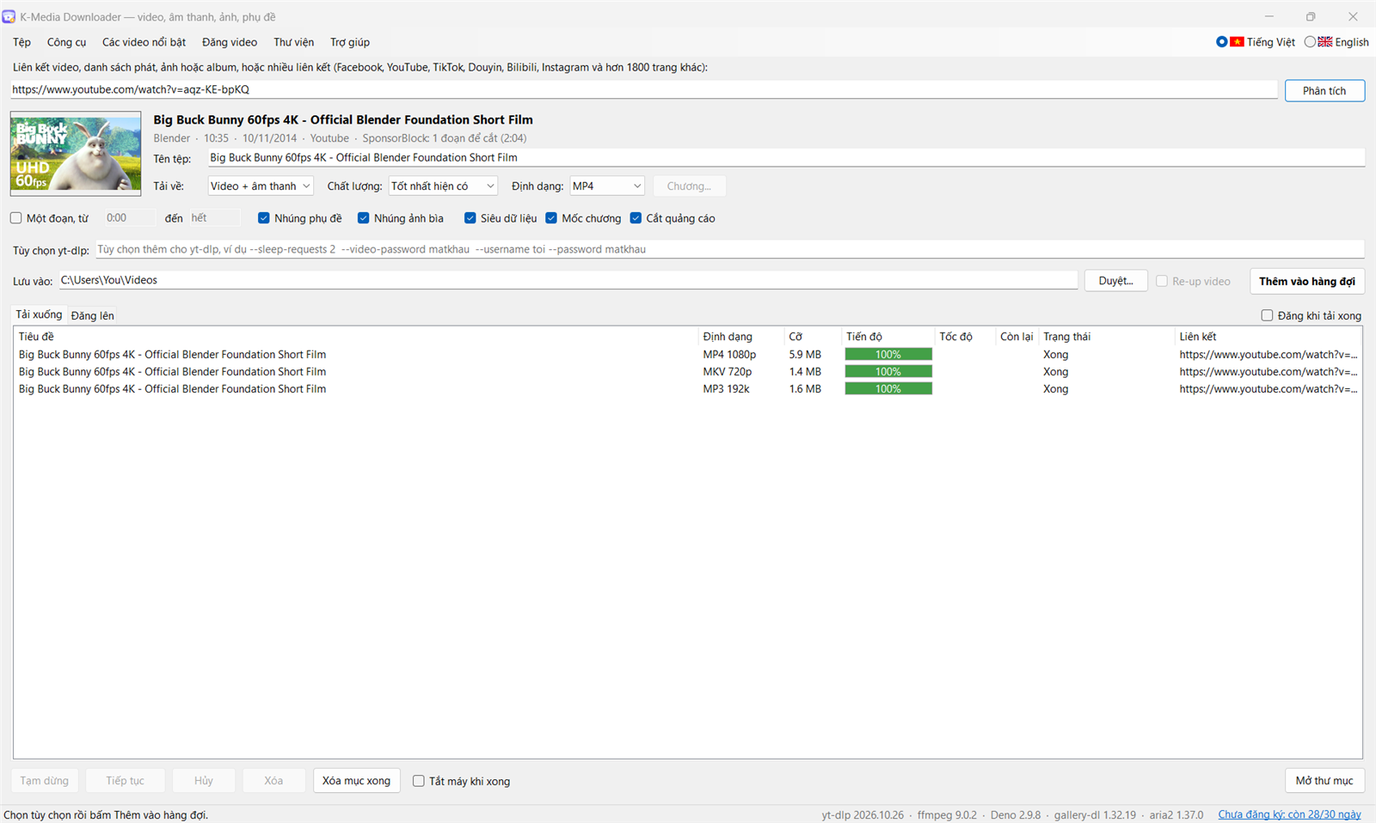
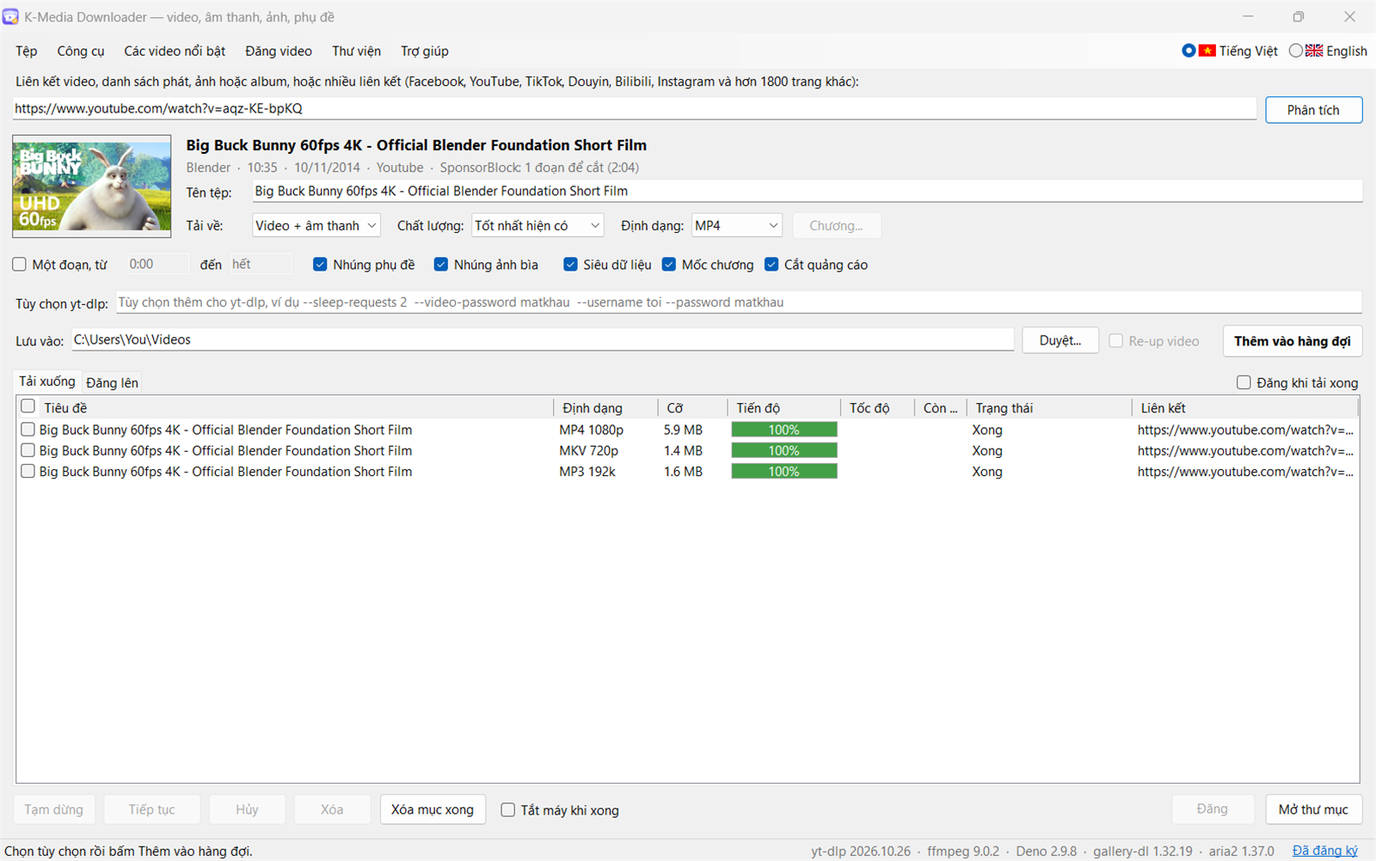
K-Media Downloader 1.7.2

diff --git a/README.vi.md b/README.vi.md
@@ -34,6 +34,7 @@ Dán liên kết, bấm **Phân tích** để xem trang đó có gì (một vide
 | **Tải nhanh hơn** | Mỗi tệp được tải qua nhiều kết nối cùng lúc bằng **aria2**, ứng dụng tự thêm công cụ này: nhanh hơn nhiều ở những trang làm chậm từng kết nối (Facebook, Bilibili và các trang khác). Nếu trang từ chối, lượt tải đó được thử lại mà không có aria2. Tắt trong Cài đặt > Mạng. |
 | **Cài đặt mạng** | Proxy, giới hạn tốc độ cho mỗi lượt tải, số phần của một video phát trực tuyến được tải cùng lúc, và trình duyệt để giả dạng (Chrome, Edge, Firefox, Safari) cho những trang từ chối công cụ tải: Cài đặt > Mạng. |
 | **Nhiều lượt tải cùng lúc** | Chọn số lượt chạy cùng một lúc, các lượt còn lại chờ trong hàng đợi. Đóng ứng dụng lúc nào cũng được: lần sau hàng đợi quay lại, và các lượt tải dở dang tiếp tục từ chỗ đã dừng. |
+| **Danh sách hàng đợi và Đăng lên** | Tick các hàng (ô ở bên trái mỗi hàng, ô ở tiêu đề danh sách để tick tất cả, hoặc Ctrl+A) thì các nút bên dưới danh sách tác động lên các hàng đã tick trước; khi chưa tick hàng nào, chúng tác động lên các hàng đang chọn, còn menu chuột phải tác động lên hàng bạn bấm. **Hủy** hỏi trước khi dừng một lượt tải đã bắt đầu (các tệp đã tải dở bị xóa) hoặc một video đang được đăng, **Xóa** luôn hỏi, và **Xóa mục xong** chỉ lấy khỏi danh sách những mục đã xong, lỗi hoặc đã hủy. Bấm đúp một hàng để mở tệp hoặc bài đăng của nó. Cửa sổ mở lại ở thẻ bạn đã để. Danh sách **Đăng lên** cũng được giữ khi bạn đóng ứng dụng: những video đang chờ đăng sẽ tiếp tục ở lần mở sau, còn video đang được đăng được đánh dấu **Kiểm tra bài đã đăng chưa**, vì có thể nó đã lên trang: bạn được hỏi lại trước khi thử đăng lần nữa. |
 | **Phát trực tiếp** | Ghi một buổi phát trực tiếp từ đầu hoặc từ bây giờ, hoặc chờ một buổi chưa bắt đầu. Bấm **Dừng & lưu** để giữ phần đã ghi. |
 | **Phụ đề và hơn thế nữa nằm trong tệp** | Nhúng phụ đề theo các ngôn ngữ của bạn, ảnh bìa, tiêu đề và mô tả, cùng các mốc chương. |
 | **Phụ đề nhúng cứng** | Hoặc vẽ phụ đề lên hình (Cài đặt > Phụ đề trong video), để nó hiện trên mọi trình phát hay trang web. |
@@ -46,7 +47,7 @@ Dán liên kết, bấm **Phân tích** để xem trang đó có gì (một vide
 | **Tách hình từ video** | Công cụ > **Tách hình từ video** lưu ảnh từ video: một ảnh sau mỗi vài giây, một ảnh ở mỗi lần chuyển cảnh, tại các thời điểm bạn gõ, một số lượng ảnh chia đều, hoặc mọi khung hình; của cả video hay chỉ một đoạn, và chỉ đoạn đó được tải. Dưới dạng JPG, PNG hoặc WebP, với kích thước bạn chọn (ban đầu là 1080p: 4K lâu gấp khoảng hai lần), mỗi ảnh đặt tên theo thời điểm trong video, và nếu muốn thì thêm một ảnh tổng hợp xếp tất cả vào lưới. Ảnh hiện trong thư mục khi vừa được tạo, và những ảnh đã tạo vẫn còn khi bạn dừng. Chia đều đọc ảnh thẳng từ video trực tuyến mà không tải về, khi các ảnh cách nhau từ 4 giây trở lên; chuyển cảnh được tìm trong bản video nhỏ nhất của trang khi có (YouTube có), nhanh gấp năm lần với video 4K. Mọi khung hình sẽ cho biết trước các ảnh chiếm bao nhiêu chỗ, và cảnh báo khi ổ đĩa không đủ. Hoặc chọn một tệp video trong máy: ảnh được lấy thẳng từ đó. Ảnh của mỗi video nằm trong một thư mục đặt tên theo video, trừ khi bạn bỏ tick. |
 | **Giọng nói, nhạc và hiệu ứng âm thanh** | Công cụ > **Tách giọng nói, nhạc nền và hiệu ứng âm thanh** tách âm thanh của video thành lời nói, nhạc nền (kèm lời hát) và hiệu ứng âm thanh, mỗi phần một tệp (WAV, MP3, M4A hoặc FLAC): giọng nói để lồng tiếng hay làm phụ đề, nhạc không có lời nói, âm thanh của video không có nhạc. Từ một liên kết hoặc một tệp trong máy. Nó chạy trên máy bạn với mô hình BandIt v2, không gửi gì đi đâu: trên card đồ họa rời (NVIDIA, AMD hoặc Intel) một phút âm thanh mất khoảng một phút, trên bộ xử lý thì vài phút. Lần đầu nó tải ONNX Runtime và mô hình (khoảng 270 MB). |
 | **Lồng tiếng sang ngôn ngữ khác** | Công cụ > **Lồng tiếng sang ngôn ngữ khác** làm cho video nói bằng một ngôn ngữ khác. Ví dụ, video có người nói tiếng Trung sẽ trở lại với giọng tiếng Việt nói lại điều họ nói. Lời nói được nghe và dịch (như Tạo từ giọng nói), mỗi câu được một giọng đọc đúng thời điểm, nhanh hơn một chút ở chỗ bản dịch dài hơn, chồng lên nhạc nền và hiệu ứng âm thanh của chính video đã tách bỏ giọng nói (hoặc chỉ hạ âm lượng, nếu bạn bỏ tick mục đó), còn hình ảnh được giữ nguyên. Âm thanh gốc vẫn còn như một luồng tiếng thứ hai để bạn chuyển sang. Sang tiếng Việt, Anh, Trung, Indonesia, Pháp, Đức, Tây Ban Nha, Bồ Đào Nha, Ý, Nga, Ả Rập hoặc Thổ Nhĩ Kỳ. Từ một liên kết hoặc một tệp trong máy. Tất cả chạy trên máy bạn, với các giọng Piper, không gửi gì đi đâu. Giọng đọc là giọng tổng hợp, không phải giọng của người nói. Bạn cũng có thể nhúng cứng bản dịch lên hình dưới dạng phụ đề (ở dưới, trên một hộp đen, hoặc ở trên), che phụ đề đã nhúng cứng sẵn trong video (làm mờ, che bằng hộp đen hoặc cắt bỏ, trước khi vẽ phụ đề mới: chúng chỉ bị che, không bị gỡ ra), và làm luôn một video re-up từ đó trong cùng một lượt. Lần đầu nó tải Piper và giọng đọc (khoảng 85 MB), ngoài bộ nhận dạng giọng nói, bộ dịch và bộ tách khi chúng chưa có. |
-| **Video re-up** | Tạo thêm một phiên bản của mỗi video tải về, sẵn sàng để đăng lại: tick ô **Video re-up** cạnh Thêm vào hàng đợi, và đặt trong Cài đặt > **Re-up**. Ở đó, **Khung hình** là 9:16 (Shorts, Reels, TikTok), 1:1, 4:5, 16:9 hoặc **Cùng tỉ lệ với video** (mục đầu và là mặc định: giữ nguyên tỉ lệ của video), **Video trong khung** là cả video đặt trên một bản làm mờ của chính nó, phóng đầy khung, hoặc hình trong hình (nhỏ hơn, có viền trắng, trên bản làm mờ: thứ mà ô **Tạo video PiP** trước đây làm), và logo của riêng bạn đặt ở một góc. Đó là một video duy nhất, lưu cạnh bản tải với tên "Title_reup.mp4" ("Title.vi_reup.mp4" khi lời nói được dịch sang tiếng Việt, tên có ngôn ngữ của bản dịch). Trong chính video đó còn có thể có lời nói được dịch (**Dịch sang**) và lồng tiếng bằng một giọng đọc hoặc nhúng cứng thành phụ đề, và nó viết sẵn tiêu đề, mô tả cùng hashtag để đăng vào một tệp văn bản ("Title.post.txt", "Title.vi.post.txt" khi có dịch). Ô **Video re-up** bị làm mờ khi các lựa chọn này không tạo ra gì (tỉ lệ gốc của video, cả khung, không logo, không bước nào và không có phụ đề cũ cần che): hãy chọn một khung hình, logo, hình trong hình hoặc một bước xử lý. Những thứ các bước đó cần (bộ nhận dạng giọng nói, bộ dịch, giọng đọc) được tải một lần từ Công cụ > **Lồng tiếng sang ngôn ngữ khác**, cũng là nơi các bước AI lấy lựa chọn của chúng (giữ nhạc nền và âm thanh gốc, vị trí đặt phụ đề). Cửa sổ Lồng tiếng có ô **Tạo thêm video re-up** riêng, và **Che phụ đề cũ của video** (cũng có trong Cài đặt > **Re-up**, cùng một lựa chọn; **Chọn trên hình** hiện một ảnh của video, từ tệp trong máy hoặc liên kết, và bạn kéo một khung lên phụ đề thay vì gõ số; khung có thể chỉ chiếm một phần chiều rộng, trừ khi cắt bỏ thì lấy cả chiều rộng): nó làm mờ, che bằng hộp đen hoặc cắt bỏ dải có phụ đề đã nhúng cứng vào hình, trước khi vẽ phụ đề mới. Việc đó chỉ che chúng, không gỡ chúng ra được. Robert có thể đặt tất cả giúp bạn: chỉ cần nói khung hình, logo, ngôn ngữ và các bước bạn muốn. Tất cả chạy trên máy bạn, không gửi gì đi đâu. Video đã có trong máy được re-up từ Công cụ > **Re-up video...**, từ menu chuột phải của hàng đợi hoặc từ Thư viện. Chỉ dành cho video bạn được phép đăng lại: của chính bạn, hoặc có sự cho phép của chủ sở hữu. |
+| **Video re-up** | Tạo thêm một phiên bản của mỗi video tải về, sẵn sàng để đăng lại: tick ô **Video re-up** cạnh Thêm vào hàng đợi, và đặt trong Cài đặt > **Re-up**. Ở đó, **Khung hình** là 9:16 (Shorts, Reels, TikTok), 1:1, 4:5, 16:9 hoặc **Cùng tỉ lệ với video** (mục đầu và là mặc định: giữ nguyên tỉ lệ của video), **Video trong khung** là cả video đặt trên một bản làm mờ của chính nó, phóng đầy khung, hoặc hình trong hình (nhỏ hơn, có viền trắng, trên bản làm mờ), và logo của riêng bạn đặt ở một góc. Đó là một video duy nhất, lưu cạnh bản tải với tên "Title_reup.mp4" ("Title.vi_reup.mp4" khi lời nói được dịch sang tiếng Việt, tên có ngôn ngữ của bản dịch). Trong chính video đó còn có thể có lời nói được dịch (**Dịch sang**) và lồng tiếng bằng một giọng đọc hoặc nhúng cứng thành phụ đề, và nó viết sẵn tiêu đề, mô tả cùng hashtag để đăng vào một tệp văn bản ("Title.post.txt", "Title.vi.post.txt" khi có dịch). Ô **Video re-up** bị làm mờ khi các lựa chọn này không tạo ra gì (tỉ lệ gốc của video, cả khung, không logo, không bước nào và không có phụ đề cũ cần che): hãy chọn một khung hình, logo, hình trong hình hoặc một bước xử lý. Những thứ các bước đó cần (bộ nhận dạng giọng nói, bộ dịch, giọng đọc) được tải một lần từ Công cụ > **Lồng tiếng sang ngôn ngữ khác**, cũng là nơi các bước AI lấy lựa chọn của chúng (giữ nhạc nền và âm thanh gốc, vị trí đặt phụ đề). Cửa sổ Lồng tiếng có ô **Tạo thêm video re-up** riêng, và **Che phụ đề cũ của video** (cũng có trong Cài đặt > **Re-up**, cùng một lựa chọn; **Chọn trên hình** hiện một ảnh của video, từ tệp trong máy hoặc liên kết, và bạn kéo một khung lên phụ đề thay vì gõ số; khung có thể chỉ chiếm một phần chiều rộng, trừ khi cắt bỏ thì lấy cả chiều rộng): nó làm mờ, che bằng hộp đen hoặc cắt bỏ dải có phụ đề đã nhúng cứng vào hình, trước khi vẽ phụ đề mới. Việc đó chỉ che chúng, không gỡ chúng ra được. Robert có thể đặt tất cả giúp bạn: chỉ cần nói khung hình, logo, ngôn ngữ và các bước bạn muốn. Tất cả chạy trên máy bạn, không gửi gì đi đâu. Video đã có trong máy được re-up từ Công cụ > **Re-up video...**, từ menu chuột phải của hàng đợi hoặc từ Thư viện. Chỉ dành cho video bạn được phép đăng lại: của chính bạn, hoặc có sự cho phép của chủ sở hữu. |
 | **Các video nổi bật** | Menu **Các video nổi bật** liệt kê những gì đang nổi bật trên **YouTube** (bảng xếp hạng phổ biến nhất của một quốc gia, theo danh mục), **Facebook** (trang Watch, hoặc các Trang bạn thêm), **TikTok** (trang Khám phá, theo danh mục), **Douyin**, **Bilibili** (bilibili.com hoặc bilibili.tv) và **Instagram** (Reels: bảng tin của tài khoản đang đăng nhập, một hashtag hoặc một tài khoản), dưới dạng lưới ảnh bìa. Chọn số lượt xem tối thiểu và số lượt thích tối thiểu, số video và thứ tự (xem nhiều nhất, mới nhất, thích nhiều nhất, nhiều nhất trong ngày...), bấm **Tìm**, tick những video bạn muốn và thêm vào hàng đợi. Mỗi thẻ hiện số lượt thích cạnh lượt xem khi trang cung cấp (YouTube, các Trang Facebook, TikTok, Bilibili và Instagram), và rê chuột lên sẽ hiện thêm bình luận và lượt chia sẻ. Với các Trang Facebook, một danh sách thả xuống chứa các Trang bạn thêm bằng **+** (gỡ một Trang bằng **-**): **Tất cả trang** đọc ngẫu nhiên ba Trang, song song, còn chọn một Trang thì chỉ đọc Trang đó. Facebook, TikTok, Douyin, Bilibili và Instagram được đọc trong một trình duyệt mà ứng dụng mở không có cửa sổ; Instagram cần đăng nhập, và dùng tài khoản phụ an toàn hơn tài khoản chính. |
 | **Đăng video** | Menu **Đăng video** đăng một video lên tài khoản **YouTube**, **Facebook** hoặc **TikTok** của bạn, từ hàng đợi, Thư viện hoặc một tệp: chọn kênh hoặc Trang, tiêu đề, mô tả và ai được xem, rồi theo dõi tiến trình ở thẻ **Đăng lên**. Đăng một video, cả loạt, hoặc tick **Đăng khi tải xong**. Hãy đăng nhập vào trang trước (Công cụ > **Đăng nhập vào các trang**): bài được đăng trong một cửa sổ trình duyệt riêng, giống như bạn tự làm. |
 | **Thư viện** | Menu **Thư viện** liệt kê các video bạn đã tải: tìm kiếm, phát, mở thư mục chứa, xóa, hoặc đăng chúng. Bản re-up của một video được liệt kê cạnh bản gốc, có bộ lọc để chỉ hiện các video re-up. |

diff --git a/README.md b/README.md
@@ -37,6 +37,7 @@ rest: it downloads in the background, several at a time, and tells you when each
 | **Faster downloads** | Each file is downloaded over many connections at once with **aria2**, which the app adds by itself: much faster on sites that slow down each connection (Facebook, Bilibili and others). If a site refuses it, that download is tried again without it. Turn it off in Settings > Network. |
 | **Network settings** | A proxy, a speed limit per download, how many parts of a streamed video come at once, and a browser to look like (Chrome, Edge, Firefox, Safari) for sites that turn away downloaders: Settings > Network. |
 | **Several downloads at once** | Choose how many run at the same time; the rest wait in the queue. Close the app whenever you like: the queue comes back next time, and unfinished downloads carry on where they stopped. |
+| **The queue and Uploads lists** | Tick rows (the box at the left of a row, the box in the list's header for all of them, or Ctrl+A) and the buttons below the list act on the ticked rows first; with none ticked, they act on the selected rows, and the right-click menu acts on the row you clicked. **Cancel** asks first when it would stop a download that has started (its partly downloaded files are deleted) or a video being posted, **Remove** always asks, and **Clear finished** takes off only what is done, failed or cancelled. Double-click a row to open its file or its post. The window opens on the tab you left. The **Uploads** list is kept when you close the app: what was waiting to be posted carries on at the next start, and a video that was being posted is marked **Check whether posted**, as it may already be on the site: you are asked again before it is tried once more. |
 | **Live streams** | Record a live stream from its beginning or from now, or wait for one that hasn't started. Press **Stop & save** to keep what's recorded so far. |
 | **Subtitles and more inside the file** | Embed subtitles in your languages, the thumbnail as cover, the title and description, and chapter marks. |
 | **Burned-in subtitles** | Or draw the subtitles on the picture (Settings > Subtitles in the video), so they show on any player or site. |
@@ -49,7 +50,7 @@ rest: it downloads in the background, several at a time, and tells you when each
 | **Pictures from a video** | Tools > **Frame extractor** saves pictures from a video: one every few seconds, one at each change of scene, at the times you type, a number of them spread evenly, or every frame; of the whole video or only a part, which is all it downloads. As JPG, PNG or WebP, at the size you choose (1080p at first: 4K takes about twice as long), each named with its time in the video, and if you like a contact sheet with all of them in a grid. The pictures appear in the folder as they are made, and the ones made stay when you stop. Spread evenly reads the pictures straight from the video online, without downloading it, when they are 4 seconds apart or more; changes of scene are found in the site's smallest copy of the video when it has one (YouTube does), five times as quick for a 4K video. Every frame says first how much room the pictures take, and warns when the drive hasn't enough. Or choose a video file on your PC: the pictures are taken straight from it. Each video's pictures go in a folder named after it, unless you untick that. |
 | **Voice, music and sound effects** | Tools > **Separate voice, music and sound effects** takes a video's sound apart into what is said, the background music (with its singing) and the sound effects, each to its own file (WAV, MP3, M4A or FLAC): a voice to dub over or subtitle, music without the talking, a video's sound without its music. From a link or a file on your PC. It runs on your PC with the BandIt v2 model, nothing is sent anywhere: on a graphics card of its own (NVIDIA, AMD or Intel) a minute of sound takes about a minute, on the processor several. The first time it downloads ONNX Runtime and the model (about 270 MB). |
 | **Dub into another language** | Tools > **Dub into another language** makes a video speak another language. For example, a video where people speak Chinese comes back with a Vietnamese voice saying what they say. What is said is heard and translated (as Make from speech does), each line is read by a voice at its time, a little faster where the translation is longer, over the video's own music and sound effects with its voice taken out (or its sound turned down, if you untick that), and the picture is kept as it is. The original sound stays as a second audio track you can switch to. Into Vietnamese, English, Chinese, Indonesian, French, German, Spanish, Portuguese, Italian, Russian, Arabic or Turkish. From a link or a file on your PC. It all runs on your PC, with the Piper voices, nothing is sent anywhere. The voice is a synthetic one, not the speaker's. You can also burn the translation into the picture as subtitles (at the bottom, over a black box, or at the top), hide subtitles already burned into the video (blurred, covered with a black box or cut off, before the new ones are drawn: they are hidden, not taken out), and make a re-up video from it in the same pass. The first time it downloads Piper and the voice (about 85 MB), besides the speech recognizer, the translator and the separator when they aren't there yet. |
-| **Re-up video** | Also make a version of each download ready to post again: tick the **Re-up video** box beside Add to queue, and set it in Settings > **Re-up**. There, **Frame** is 9:16 (Shorts, Reels, TikTok), 1:1, 4:5, 16:9 or **Same shape as the video** (the first, and the default: it keeps the video's own shape), **Video in the frame** is whole over a blurred copy of itself, filled in, or a picture-in-picture (smaller, with a white border, over a blurred copy: what the old **Make PiP video** box made), and your own logo goes in a corner. It is one video, saved next to the download as "Title_reup.mp4" ("Title.vi_reup.mp4" when its speech is translated into Vietnamese, with the language of the translation in its name). In that same video it can also have what is said translated (**Translate into**) and dubbed with a voice or burned in as subtitles, and it writes a title, description and hashtags to post with in a text file ("Title.post.txt", "Title.vi.post.txt" when translated). The **Re-up video** box is greyed out while these choices would make nothing (the video's own shape, whole, with no logo, no step and no old subtitles to hide): choose a frame, a logo, picture-in-picture or a step. What those need (the speech recognizer, the translator, the voice) is downloaded once from Tools > **Dub into another language**, which is also where the AI steps take their choices from (the music and original sound kept, where the subtitles go). The Dub window has its own **Also make a re-up video** box, and **Hide the video's old subtitles** (also in Settings > **Re-up**, the same choice; **Pick on a picture** shows a picture of the video, from a file on your PC or a link, and you drag a box over the subtitles instead of typing numbers; the box can be a part of the width, except when cutting off, which takes the whole width): it blurs, covers with a black box or cuts off the band where subtitles burned into the picture are, before the new ones are drawn. That hides them, it can't take them out. Robert can set all this for you: tell him the frame, the logo, the language and the steps you want. It all runs on your PC, nothing is sent anywhere. A video already on your PC is re-upped from Tools > **Re-up video...**, from the queue's right-click menu or from the Library. Only for videos you may post again: your own, or with the owner's permission. |
+| **Re-up video** | Also make a version of each download ready to post again: tick the **Re-up video** box beside Add to queue, and set it in Settings > **Re-up**. There, **Frame** is 9:16 (Shorts, Reels, TikTok), 1:1, 4:5, 16:9 or **Same shape as the video** (the first, and the default: it keeps the video's own shape), **Video in the frame** is whole over a blurred copy of itself, filled in, or a picture-in-picture (smaller, with a white border, over a blurred copy), and your own logo goes in a corner. It is one video, saved next to the download as "Title_reup.mp4" ("Title.vi_reup.mp4" when its speech is translated into Vietnamese, with the language of the translation in its name). In that same video it can also have what is said translated (**Translate into**) and dubbed with a voice or burned in as subtitles, and it writes a title, description and hashtags to post with in a text file ("Title.post.txt", "Title.vi.post.txt" when translated). The **Re-up video** box is greyed out while these choices would make nothing (the video's own shape, whole, with no logo, no step and no old subtitles to hide): choose a frame, a logo, picture-in-picture or a step. What those need (the speech recognizer, the translator, the voice) is downloaded once from Tools > **Dub into another language**, which is also where the AI steps take their choices from (the music and original sound kept, where the subtitles go). The Dub window has its own **Also make a re-up video** box, and **Hide the video's old subtitles** (also in Settings > **Re-up**, the same choice; **Pick on a picture** shows a picture of the video, from a file on your PC or a link, and you drag a box over the subtitles instead of typing numbers; the box can be a part of the width, except when cutting off, which takes the whole width): it blurs, covers with a black box or cuts off the band where subtitles burned into the picture are, before the new ones are drawn. That hides them, it can't take them out. Robert can set all this for you: tell him the frame, the logo, the language and the steps you want. It all runs on your PC, nothing is sent anywhere. A video already on your PC is re-upped from Tools > **Re-up video...**, from the queue's right-click menu or from the Library. Only for videos you may post again: your own, or with the owner's permission. |
 | **Popular videos** | The **Popular videos** menu lists what is popular on **YouTube** (the most popular chart of a country, by category), **Facebook** (the Watch page, or the Pages you add), **TikTok** (the Explore page, by category), **Douyin**, **Bilibili** (bilibili.com or bilibili.tv) and **Instagram** (Reels: the signed-in account's feed, a hashtag or an account), as a grid of covers. Choose the least views and the least likes, how many videos and the order (most viewed, newest, most liked, most a day...), press **Find**, tick the ones you want and add them to the queue. A card shows the video's likes beside its views when the site gives them (YouTube, Facebook Pages, TikTok, Bilibili and Instagram), and pointing at it shows its comments and shares too. For Facebook Pages, a drop-down list holds the Pages you add with **+** (take one out with **-**): **All Pages** reads three of them at random, side by side, and a Page chosen reads that one alone. Facebook, TikTok, Douyin, Bilibili and Instagram are read in a browser the app opens with no window; Instagram needs a sign-in, and a spare account is safer than your main one. |
 | **Post videos** | The **Upload videos** menu posts a video to your **YouTube**, **Facebook** or **TikTok** account, from the queue, the Library or a file: choose the channel or Page, the title, the description and who can watch, and watch the progress on the **Uploads** tab. Post one video, a batch, or tick **Post when downloads finish**. Sign in to the site first (Tools > **Sign in to sites**): the post is made in a browser window of its own, as you would do it. |
 | **Library** | The **Library** menu lists the videos you downloaded: search them, play them, find them in their folder, delete them, or post them. A video's re-up version is listed beside its original, with a filter to show only the re-up videos. |
